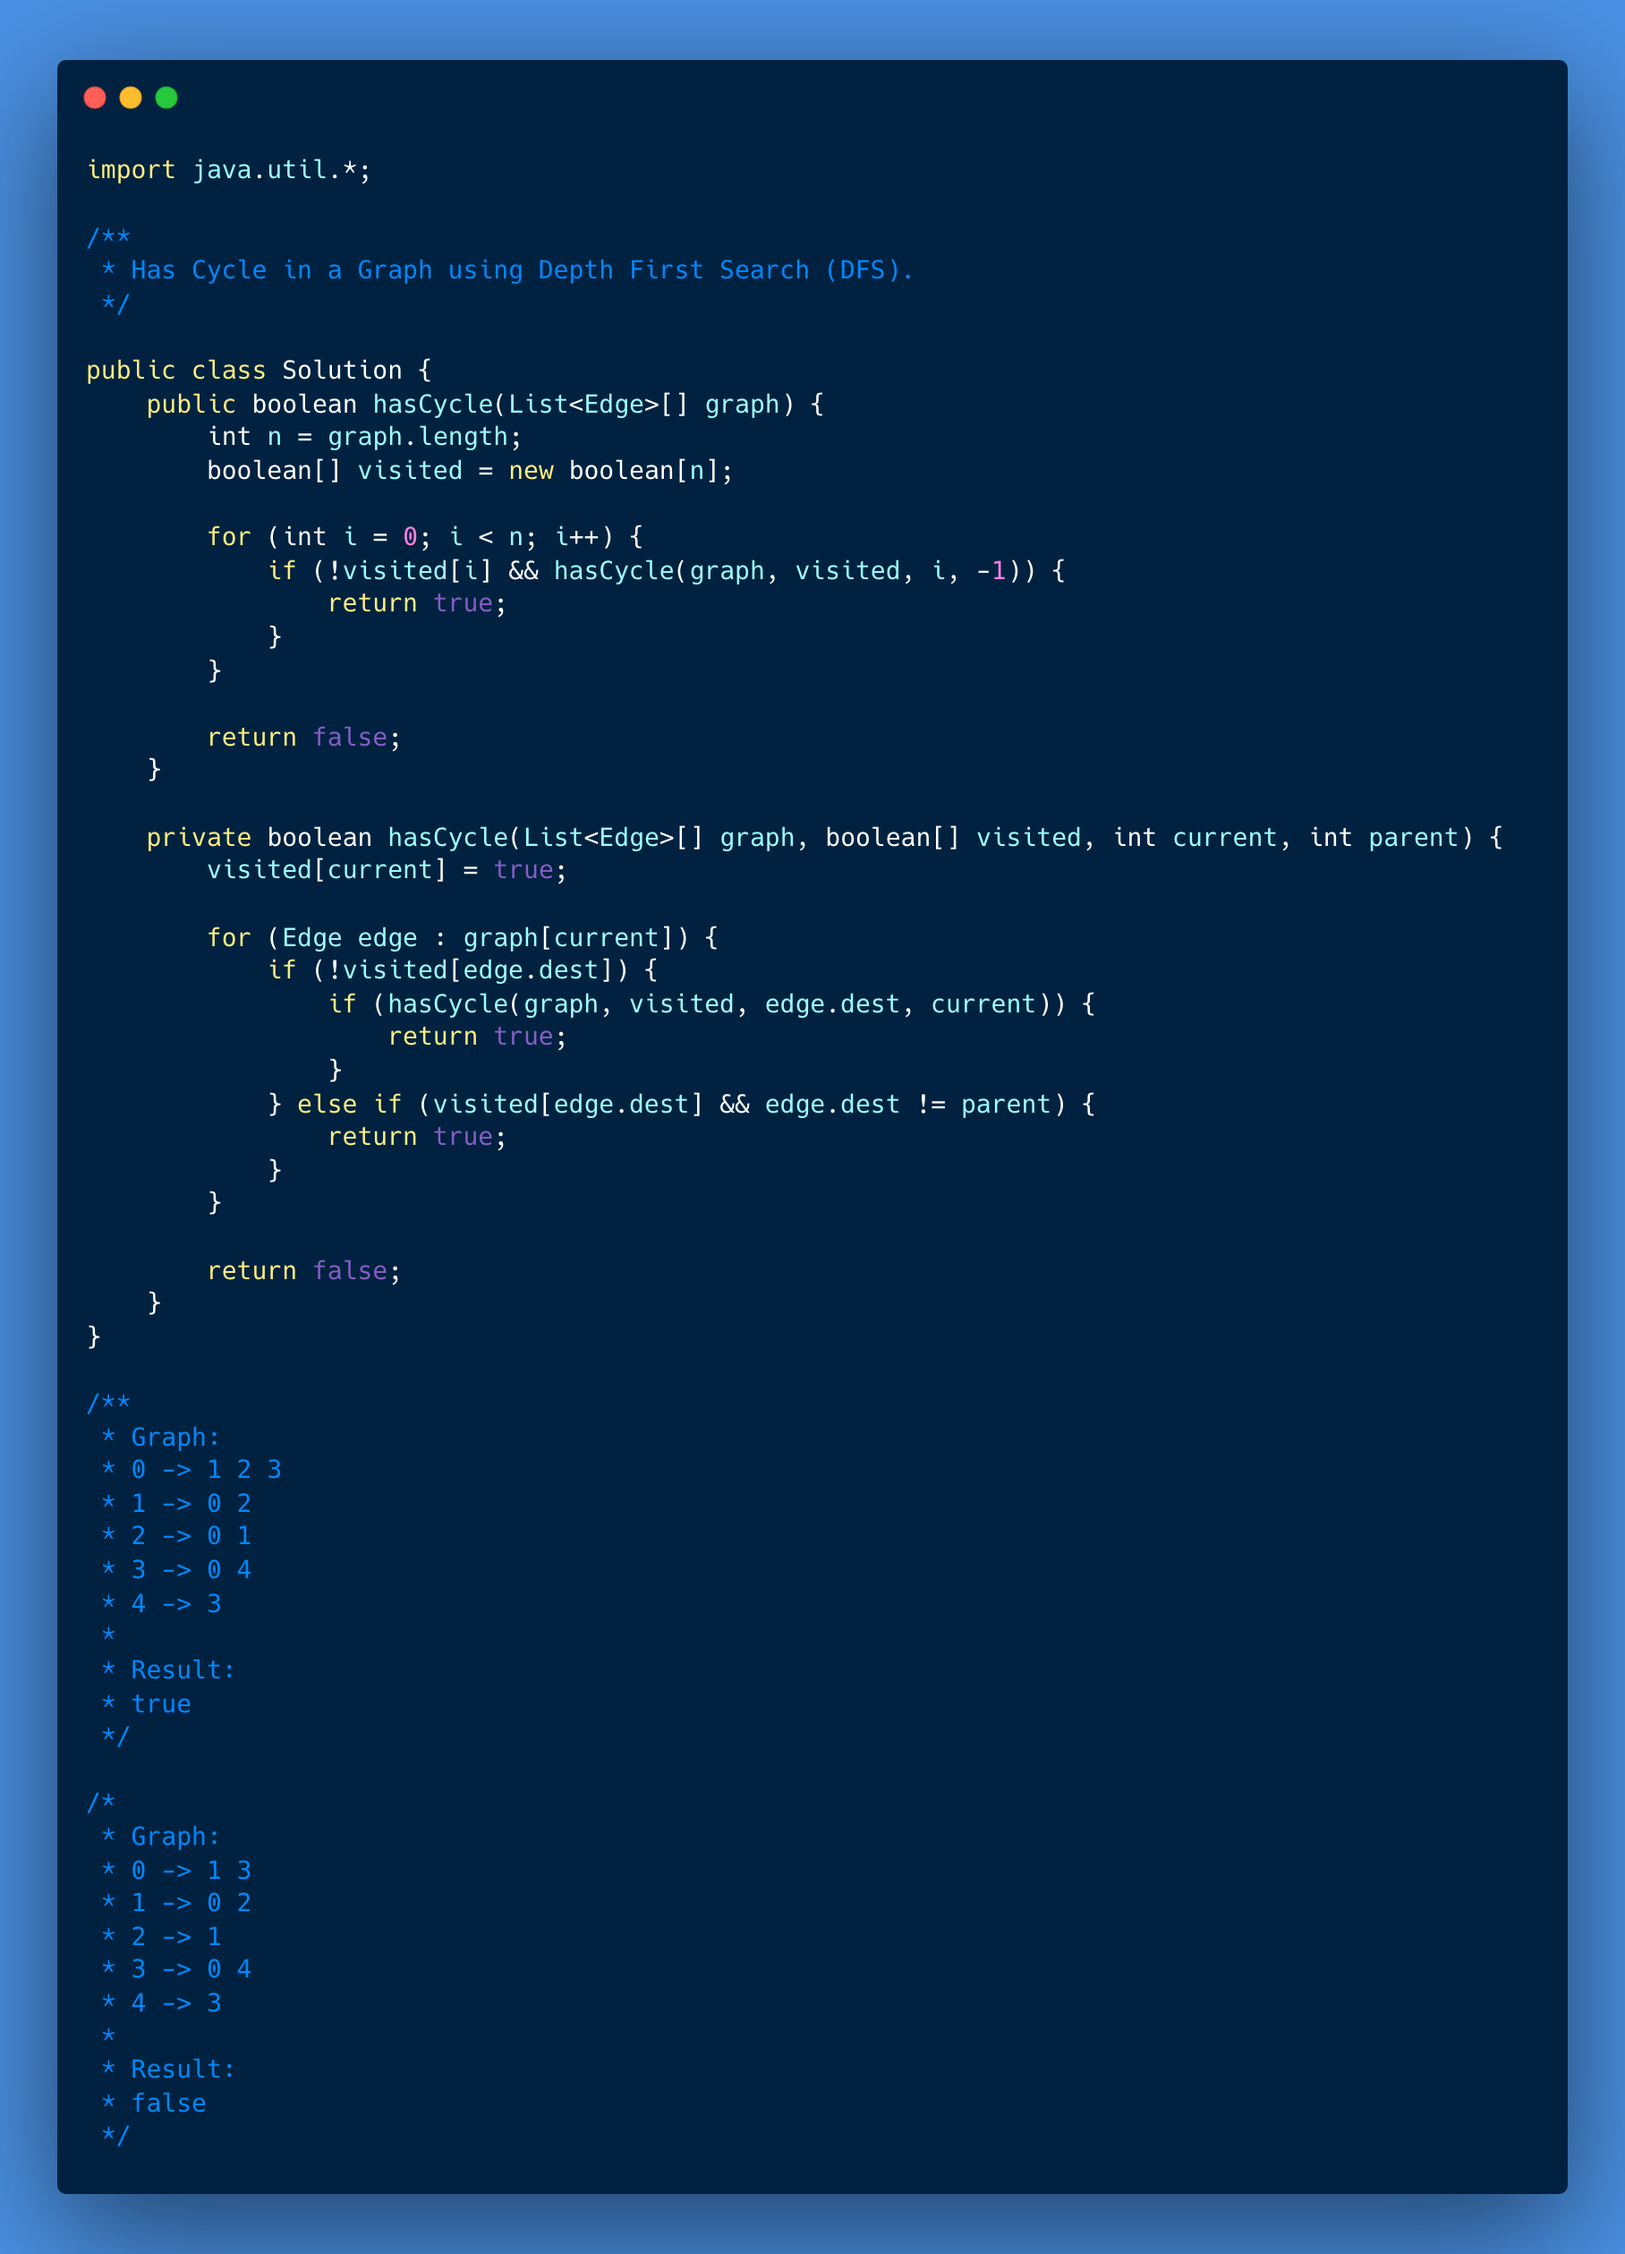
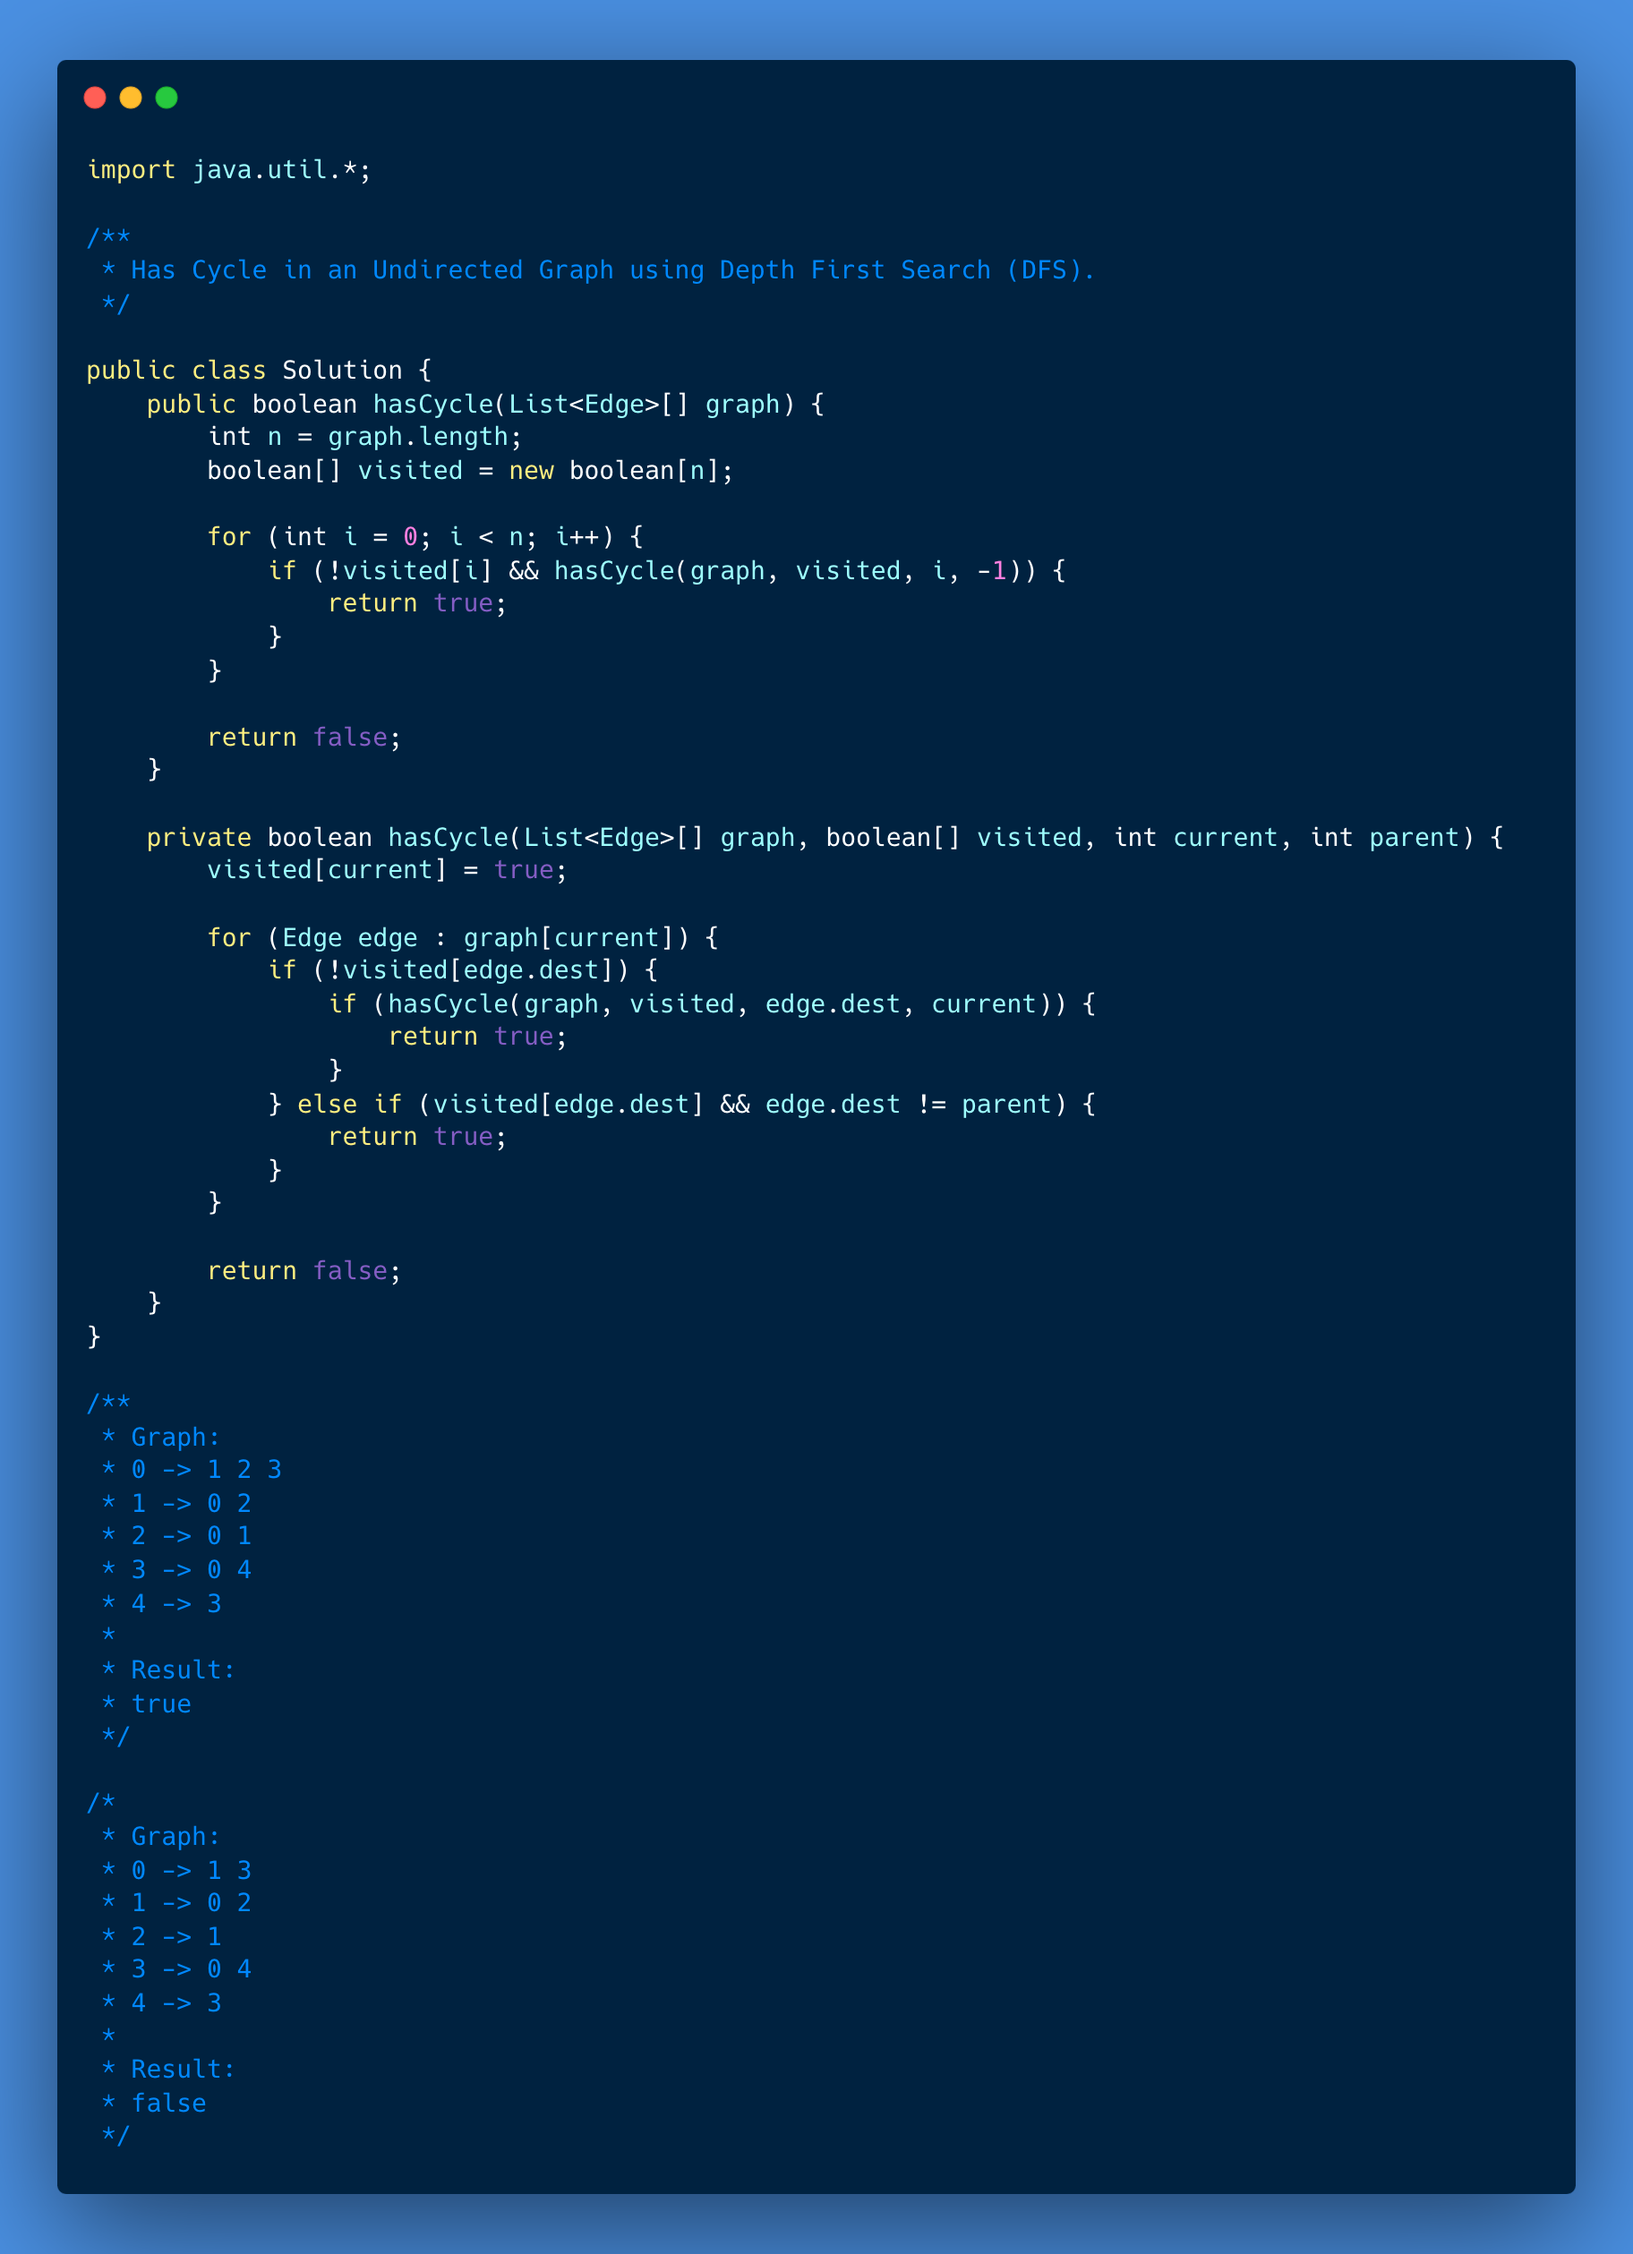
Code comment updates

diff --git a/234-cycle-detection-dfs-undirected-graph/001-solution/Solution.java b/234-cycle-detection-dfs-undirected-graph/001-solution/Solution.java
@@ -1,7 +1,7 @@
 import java.util.*;
 
 /**
- * Has Cycle in a Graph using Depth First Search (DFS).
+ * Has Cycle in an Undirected Graph using Depth First Search (DFS).
  */
 
 public class Solution {
